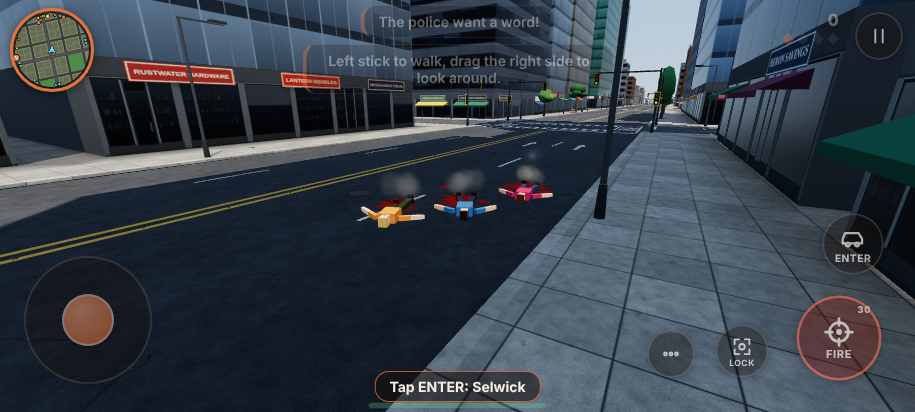
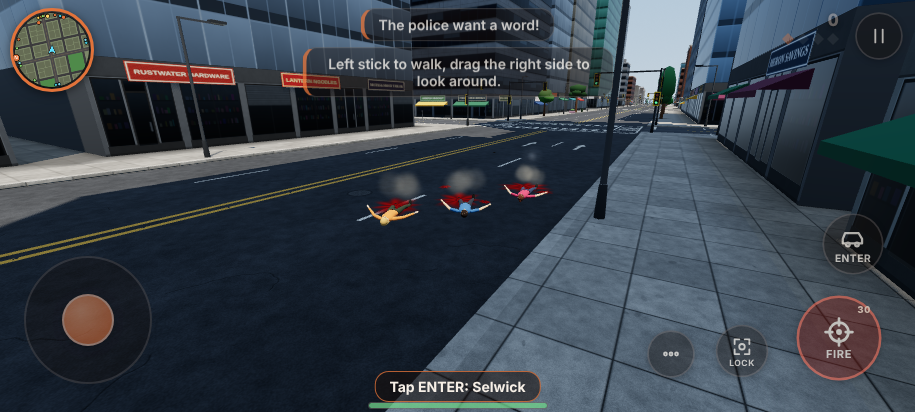
[wip] Save carjack and saved-car work
Claude-Session: https://claude.ai/code/session_018iGo17mtLFKMHzBd1Cq3Kh

diff --git a/src/render/hullkit.js b/src/render/hullkit.js
@@ -533,14 +533,12 @@ const DETAIL_BODY = /* glsl */`
   float dLine = dT.r * dPaint * uDetail.x * dFade;
   float dRiv = dT.g * dPaint * uDetail.x * dFade;
   float dGr = (dT.b - 0.5) * 2.0 * uDetail.y;
-#ifdef RW_CAMO
-  if (dC < 1.5) {
+  if (dC < 1.5 && uCamo.x > 0.0) {
     float cm = texture2D(uDetailMap, (vObj.xz + vObj.y * vec2(0.55, -0.35)) * uCamo.x + 0.37).a;
     float m1 = smoothstep(uCamo.y - 0.015, uCamo.y + 0.015, cm);
     float m2 = smoothstep(uCamo.z - 0.015, uCamo.z + 0.015, cm);
     diffuseColor.rgb *= mix(mix(vec3(1.0), uCamoA, m1), uCamoB, m2);
   }
-#endif
   diffuseColor.rgb *= (1.0 - dLine * 0.55) * (1.0 - dRiv * 0.25) * (1.0 + dGr * (0.35 + 0.65 * dPaint));
   roughnessFactor = clamp(roughnessFactor + dLine * 0.25 + dGr * 0.5 * dPaint, 0.03, 1.0);
   float dH = dRiv * 0.6 - dLine;
@@ -575,9 +573,11 @@ const PRESETS = {
 export function createSkin(preset = 'air') {
   const P = PRESETS[preset] || PRESETS.air;
   const base = craftMaterial('gloss');
-  const physical = !!base.isMeshPhysicalMaterial && P.cc > 0;
+  // Every preset shares one program (same type, clearcoat on, camo by
+  // uniform), so a new craft never waits for a shader compile.
+  const physical = !!base.isMeshPhysicalMaterial;
   const opts = { color: 0xffffff, vertexColors: true, roughness: P.rough, metalness: P.metal };
-  const m = physical ? new THREE.MeshPhysicalMaterial({ ...opts, clearcoat: P.cc, clearcoatRoughness: 0.12 })
+  const m = physical ? new THREE.MeshPhysicalMaterial({ ...opts, clearcoat: Math.max(0.02, P.cc), clearcoatRoughness: 0.12 })
     : new THREE.MeshStandardMaterial(opts);
   const u = {
     uR0: { value: new THREE.Vector4() },
@@ -594,7 +594,6 @@ export function createSkin(preset = 'air') {
     uCamoA: { value: new THREE.Vector3(...(P.camoA || [1, 1, 1])) },
     uCamoB: { value: new THREE.Vector3(...(P.camoB || [1, 1, 1])) },
   };
-  const camo = !!P.camo;
   m.onBeforeCompile = (sh, r) => {
     base.onBeforeCompile(sh, r);
     Object.assign(sh.uniforms, u);
@@ -602,11 +601,11 @@ export function createSkin(preset = 'air') {
       .replace('#include <common>', '#include <common>\n' + RIG_VERT_HEAD)
       .replace('#include <beginnormal_vertex>', RIG_NORMAL)
       .replace('#include <begin_vertex>', RIG_POS);
-    sh.fragmentShader = (camo ? '#define RW_CAMO\n' : '') + sh.fragmentShader
+    sh.fragmentShader = sh.fragmentShader
       .replace('#include <common>', '#include <common>\n' + DETAIL_HEAD)
       .replace('#include <normal_fragment_maps>', DETAIL_BODY);
   };
-  const key = 'rwskin' + (physical ? 'P' : 'S') + (camo ? 'C' : '');
+  const key = 'rwskin' + (physical ? 'P' : 'S');
   m.customProgramCacheKey = () => key;
   m.userData.rig = { r0: u.uR0.value, r1: u.uR1.value, r2: u.uR2.value, dmg: u.uDmg.value };
   m.userData.preset = preset;
